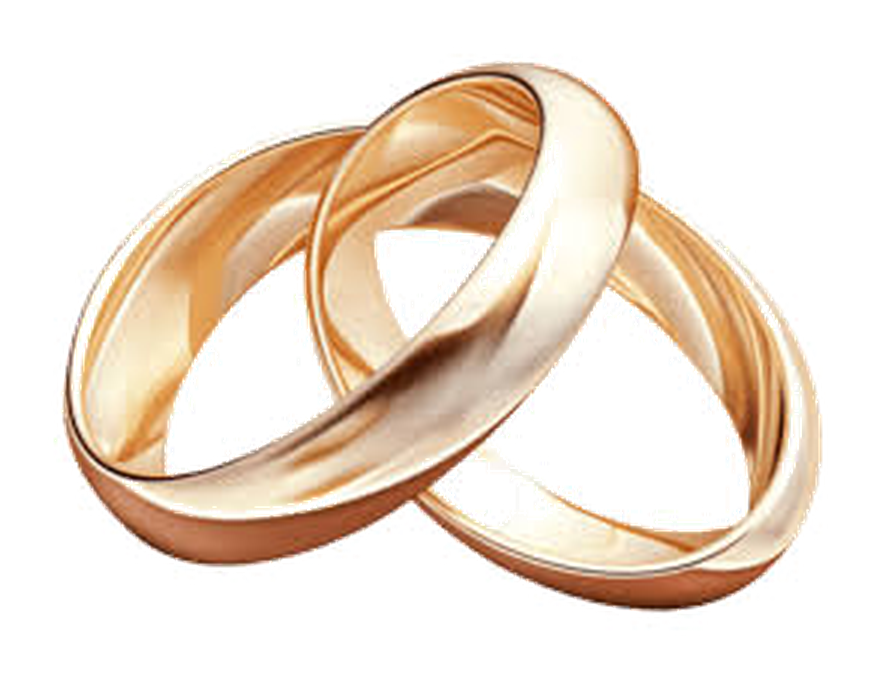
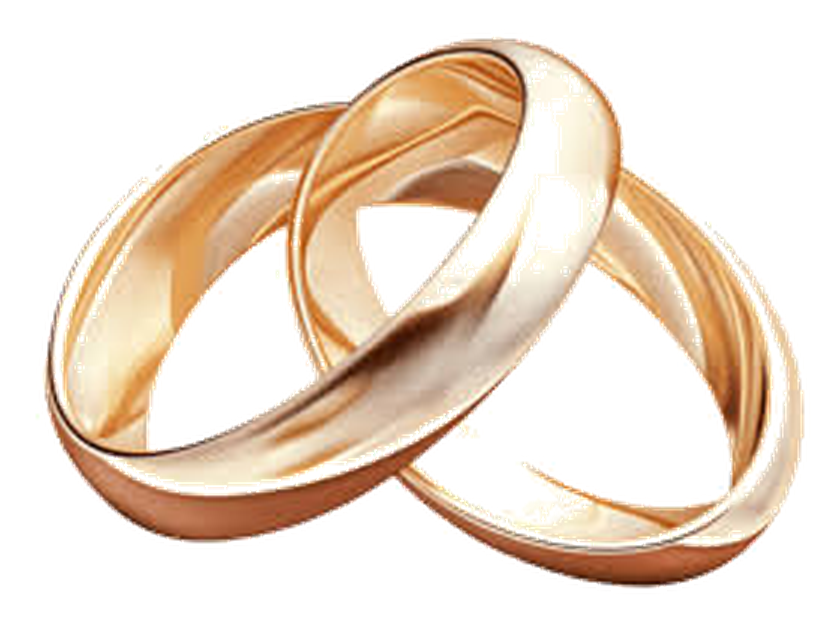
Ajusta imagen y navegación de celebración

diff --git a/style.css b/style.css
@@ -92,7 +92,7 @@ h1 em { font-weight: 400; }
 .countdown-section .countdown strong { color: var(--gold-dark); }
 .celebration { background: linear-gradient(145deg, #eee8dc 0%, #e2d6bf 100%); }
 .celebration h2 { margin: 0 0 5px; }
-.celebration-rings { display: block; width: clamp(130px, 24vw, 178px); height: auto; object-fit: contain; margin: 0 auto 10px; }
+.celebration-rings { display: block; width: clamp(105px, 18vw, 132px); height: auto; object-fit: contain; margin: 0 auto 8px; }
 .section-icon { color: var(--gold); font-size: 2.5rem; line-height: 1; margin-bottom: 13px; font-family: Georgia, serif; }
 h2 { color: var(--gold); font-size: clamp(2.5rem, 9vw, 4rem); line-height: .98; font-weight: 600; margin: 0 0 24px; }
 .event-card { max-width: 500px; margin: 0 auto; background: var(--paper); border: 1px solid var(--line); border-radius: 25px; padding: 36px 20px; box-shadow: var(--shadow); }
@@ -186,7 +186,7 @@ h2 { color: var(--gold); font-size: clamp(2.5rem, 9vw, 4rem); line-height: .98; 
   .section { min-height: 100vh; min-height: 100svh; padding: 58px 18px; }
   .event-card { width: 100%; padding: 30px 15px; border-radius: 20px; }
   .celebration { padding-top: 38px; padding-bottom: 38px; }
-  .celebration-rings { width: clamp(125px, 36vw, 158px); margin-bottom: 8px; }
+  .celebration-rings { width: clamp(96px, 27vw, 112px); margin-bottom: 6px; }
   .celebration .event-card { padding: 25px 15px; }
   .event-date { gap: 8px; }
   .event-date span { font-size: .73rem; }

diff --git a/index.html b/index.html
@@ -55,12 +55,10 @@
         <p class="year">2026</p>
         <h3>Quinta Los Trinos</h3>
         <p class="muted venue-address">Olascoaga, Percy Clark y, Q8316 Plottier, Neuquén</p>
-        <p class="muted">Una noche para celebrar, brindar y bailar juntos.</p>
         <button class="button button-solid" type="button" data-modal="mapsModal" aria-label="Ver la ubicación de Quinta Los Trinos en el mapa">¿Cómo llegar?</button>
       </div>
-      <a class="scroll-cue section-next" href="#momentos" aria-label="Seguí descubriendo la invitación">
-        <span>Seguí descubriendo</span>
-        <span class="scroll-cue-icon" aria-hidden="true"><svg viewBox="0 0 24 24" focusable="false"><path d="M12 4v15m-6-6 6 6 6-6" /></svg></span>
+      <a class="hero-down section-next" href="#momentos" aria-label="Seguí a la siguiente sección">
+        <svg viewBox="0 0 24 24" aria-hidden="true" focusable="false"><path d="M12 4v15m-6-6 6 6 6-6" /></svg>
       </a>
     </section>
 
